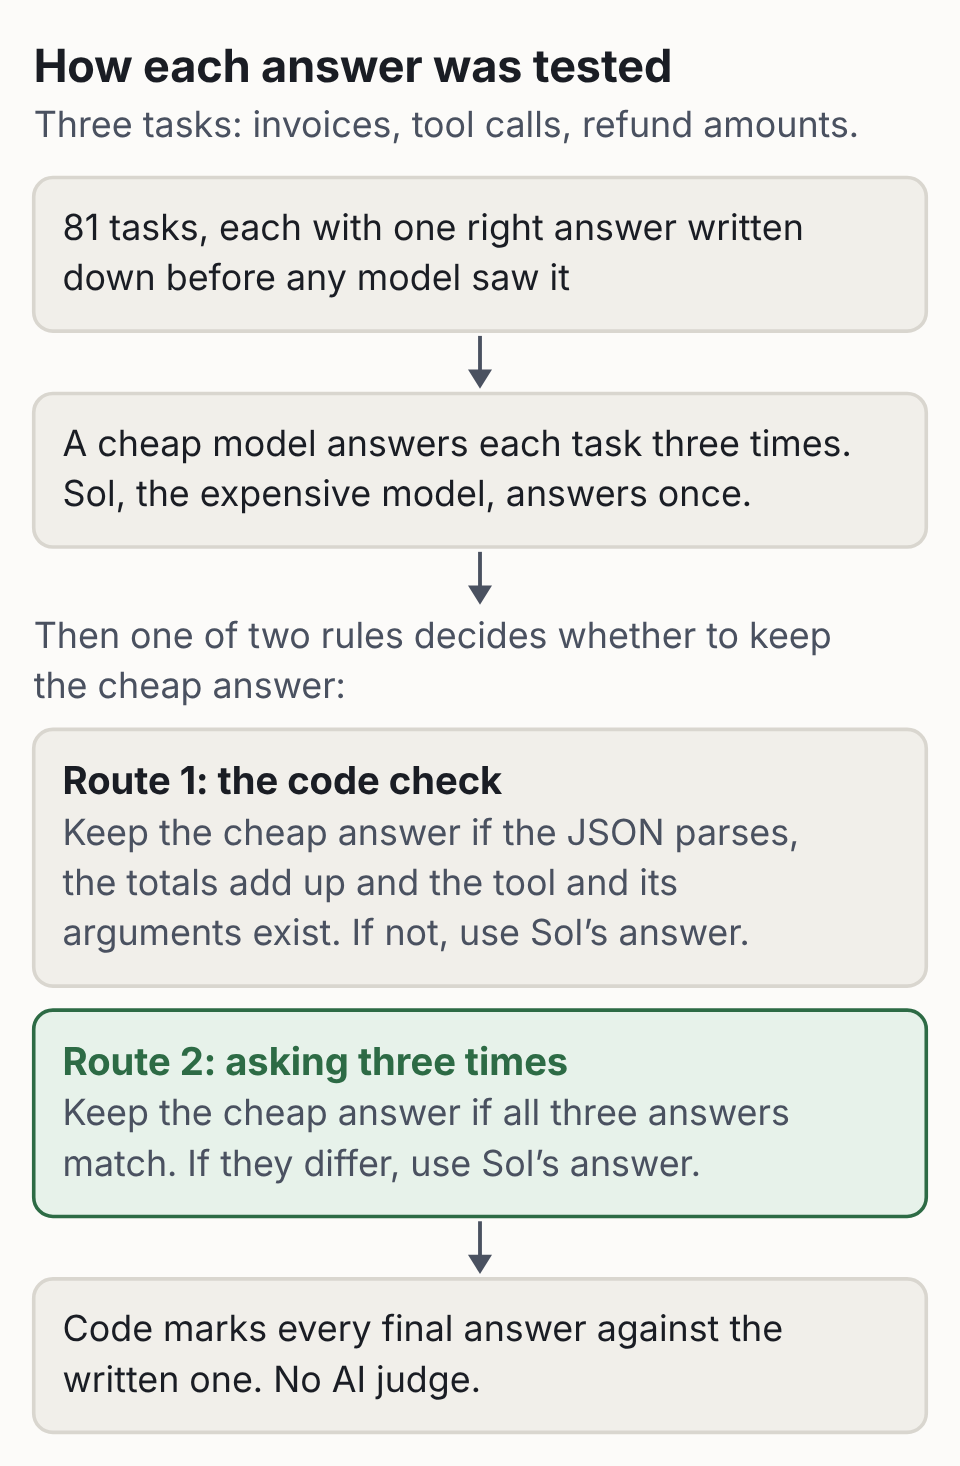
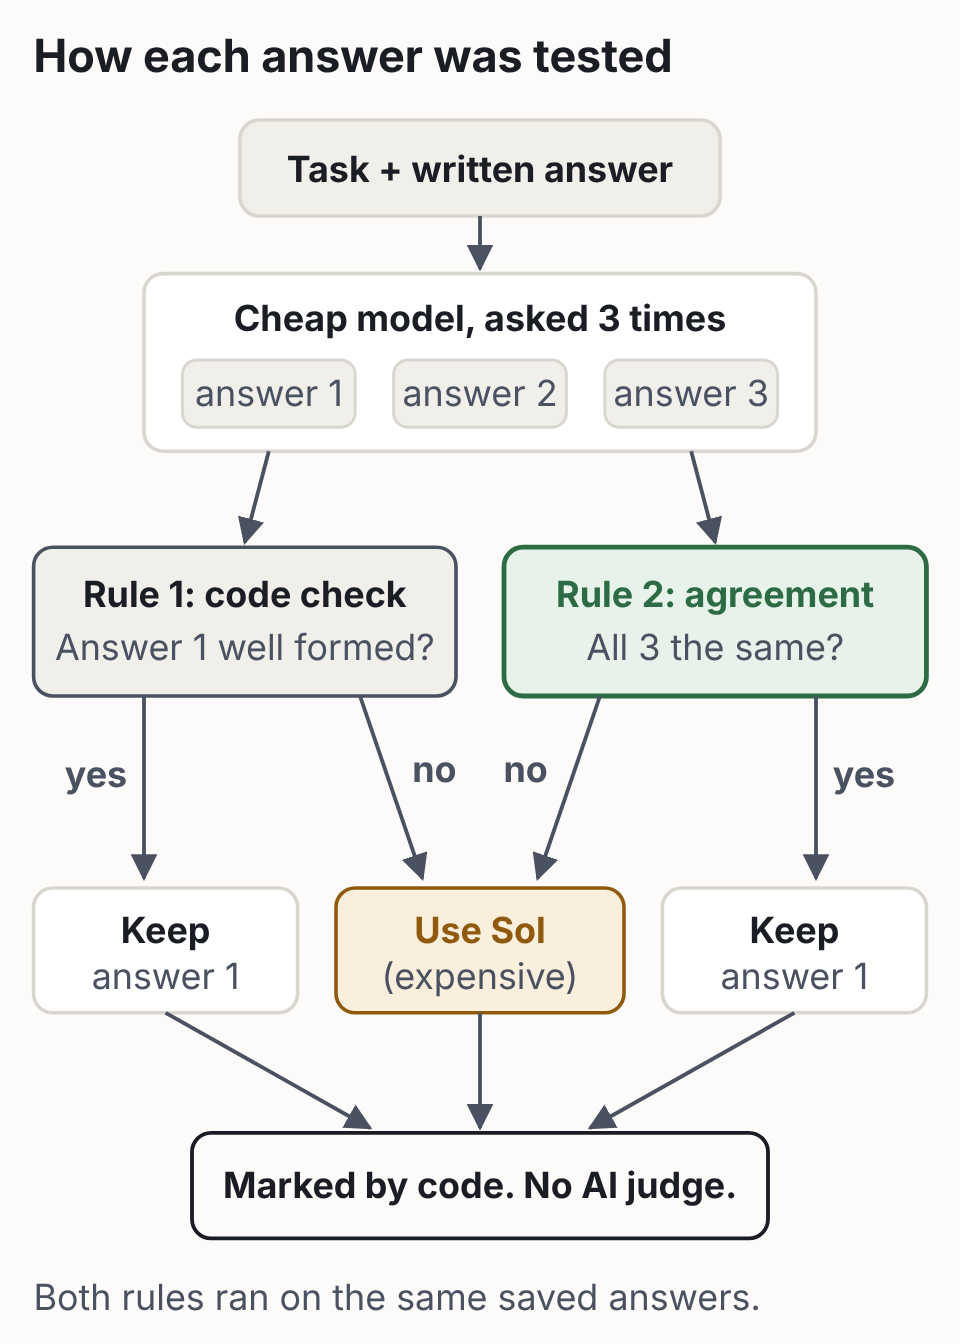
E06: redraw the test flow as a fork diagram
Same three cheap answers, two rules, each keeps answer 1 or uses Sol.
Short labels; the explanation moves to the caption.

Claude-Session: https://claude.ai/code/session_01Bkr1WthFXaErUtfemoBTYJ

diff --git a/e06-cheap-model-good-enough/figures-post/make_flow.py b/e06-cheap-model-good-enough/figures-post/make_flow.py
@@ -1,0 +1,51 @@
+"""E06 test flow as a fork: same three cheap answers, two rules, each keeps answer 1 or uses Sol."""
+INK, MUTED, RULE, PAPER, ACC = "#1A1D24", "#4A5160", "#D9D6CF", "#FCFBF9", "#8F5A0E"
+GREEN, GREEN_BG, GREY_BG, AMBER_BG = "#2D6B45", "#E7F2EA", "#F1EFEA", "#FAEEDD"
+W, H = 400, 560
+p = []
+def rect(x, y, w, h, fill=GREY_BG, stroke=RULE, sw=1.5, rx=8):
+    p.append(f'<rect x="{x}" y="{y}" width="{w}" height="{h}" rx="{rx}" fill="{fill}" stroke="{stroke}" stroke-width="{sw}"/>')
+def text(x, y, t, size=15, fill=INK, bold=False, anchor="middle"):
+    p.append(f'<text x="{x}" y="{y}" font-size="{size}" font-weight="{700 if bold else 400}" fill="{fill}" text-anchor="{anchor}">{t}</text>')
+def arrow(x1, y1, x2, y2, color=MUTED, label=None, lx=0, ly=0, lcolor=MUTED):
+    p.append(f'<line x1="{x1}" y1="{y1}" x2="{x2}" y2="{y2}" stroke="{color}" stroke-width="1.6" marker-end="url(#ah)"/>')
+    if label: text((x1 + x2) / 2 + lx, (y1 + y2) / 2 + ly, label, 15, lcolor, True)
+def diamond(cx, cy, w, h, fill, stroke):
+    p.append(f'<path d="M{cx},{cy-h/2} L{cx+w/2},{cy} L{cx},{cy+h/2} L{cx-w/2},{cy} Z" fill="{fill}" stroke="{stroke}" stroke-width="1.5"/>')
+
+# title
+text(14, 30, "How each answer was tested", 19, INK, True, "start")
+# 1. task
+rect(100, 50, 200, 40); text(200, 76, "Task + written answer", 15, INK, True)
+arrow(200, 90, 200, 112)
+# 2. cheap model, three answers
+rect(60, 114, 280, 74, "#FFFFFF", RULE)
+text(200, 138, "Cheap model, asked 3 times", 15, INK, True)
+for i, x in enumerate((112, 200, 288)):
+    rect(x - 36, 150, 72, 28, GREY_BG, RULE, 1.2, 6); text(x, 169, f"answer {i+1}", 15, MUTED)
+# fork
+arrow(112, 188, 102, 226); arrow(288, 188, 298, 226)
+# 3. decisions: rule name + question
+rect(14, 228, 176, 62, GREY_BG, MUTED); text(102, 253, "Rule 1: code check", 15, INK, True); text(102, 275, "Answer 1 well formed?", 15, MUTED)
+rect(210, 228, 176, 62, GREEN_BG, GREEN, 2); text(298, 253, "Rule 2: agreement", 15, GREEN, True); text(298, 275, "All 3 the same?", 15, MUTED)
+# outcomes row
+rect(14, 370, 110, 52, "#FFFFFF", RULE); text(69, 393, "Keep", 15, INK, True); text(69, 412, "answer 1", 15, MUTED)
+rect(276, 370, 110, 52, "#FFFFFF", RULE); text(331, 393, "Keep", 15, INK, True); text(331, 412, "answer 1", 15, MUTED)
+rect(140, 370, 120, 52, AMBER_BG, ACC); text(200, 393, "Use Sol", 15, ACC, True); text(200, 412, "(expensive)", 15, MUTED)
+# yes / no arrows
+arrow(60, 290, 60, 366, MUTED, "yes", -20, 0)
+arrow(150, 290, 176, 366, MUTED, "no", 18, -2)
+arrow(340, 290, 340, 366, MUTED, "yes", 20, 0)
+arrow(250, 290, 224, 366, MUTED, "no", -18, -2)
+# 4. marked
+for x in (69, 200, 331):
+    arrow(x, 422, 200 + (x - 200) * 0.35, 470)
+rect(80, 472, 240, 44, PAPER, INK, 1.6); text(200, 499, "Marked by code. No AI judge.", 15, INK, True)
+text(14, 546, "Both rules ran on the same saved answers.", 15, MUTED, False, "start")
+svg = (f'<svg xmlns="http://www.w3.org/2000/svg" viewBox="0 0 {W} {H}" width="480" height="{round(H*1.2)}" role="img" '
+       f'aria-label="Two rules decide whether to keep a cheap model answer or use Sol" '
+       f'font-family="Inter, \'Segoe UI\', system-ui, -apple-system, Helvetica, Arial, sans-serif">'
+       f'<defs><marker id="ah" viewBox="0 0 10 10" refX="9" refY="5" markerWidth="7" markerHeight="7" orient="auto-start-reverse">'
+       f'<path d="M0,0 L10,5 L0,10 Z" fill="{MUTED}"/></marker></defs>'
+       f'<rect width="{W}" height="{H}" fill="{PAPER}"/>' + "".join(p) + "</svg>")
+open("e06-test-flow-2026-10-31.svg", "w").write(svg)

diff --git a/e06-cheap-model-good-enough/figures-post/make_post_figures.py b/e06-cheap-model-good-enough/figures-post/make_post_figures.py
@@ -1,4 +1,4 @@
-"""E06 post visuals (31 Oct 2026): test flow, mistakes caught, cost. 400-unit canvas shown at 480 px, min font 15.
+"""E06 post visuals (31 Oct 2026): mistakes caught and cost (the flow is in make_flow.py). 400-unit canvas shown at 480 px, min font 15.
 
 Numbers come from analysis_frozen_20261029_heldout (summary-v2.json) and, for "caught", from the frozen
 scorer applied to each cheap model's first answer (repeat 0): 20 wrong; the check caught 1, agreement 13.
@@ -60,23 +60,7 @@ def header(s, title, sub):
     s.para(PAD, sub, W - 2 * PAD, 15, MUTED, False, 21)
     s.y += 12
 
-# ---------------------------------------------------------------- 1. flow
-s = Svg(); header(s, "How each answer was tested", "Three tasks: invoices, tool calls, refund amounts.")
-def step(title, body, **kw):
-    s.begin_box(); s.box(title, body, **kw)
-def arr(): y = s.y; s.y += 26; s.arrow(W / 2, y + 2, s.y - 2)
-step(None, "81 tasks, each with one right answer written down before any model saw it")
-arr()
-step(None, "A cheap model answers each task three times. Sol, the expensive model, answers once.")
-arr()
-s.para(PAD, "Then one of two rules decides whether to keep the cheap answer:", W - 2 * PAD, 15, MUTED, False, 21); s.y += 8
-step("Route 1: the code check", "Keep the cheap answer if the JSON parses, the totals add up and the tool and its arguments exist. If not, use Sol’s answer.")
-s.y += 10
-step("Route 2: asking three times", "Keep the cheap answer if all three answers match. If they differ, use Sol’s answer.",
-     fill=GREEN_BG, stroke=GREEN, title_fill=GREEN)
-arr()
-step(None, "Code marks every final answer against the written one. No AI judge.")
-open("e06-test-flow-2026-10-31.svg", "w").write(s.svg())
+# The test-flow diagram is drawn by make_flow.py.
 
 # ---------------------------------------------------------------- 2. caught
 s = Svg(); header(s, "Asking three times caught the mistakes the check missed",
